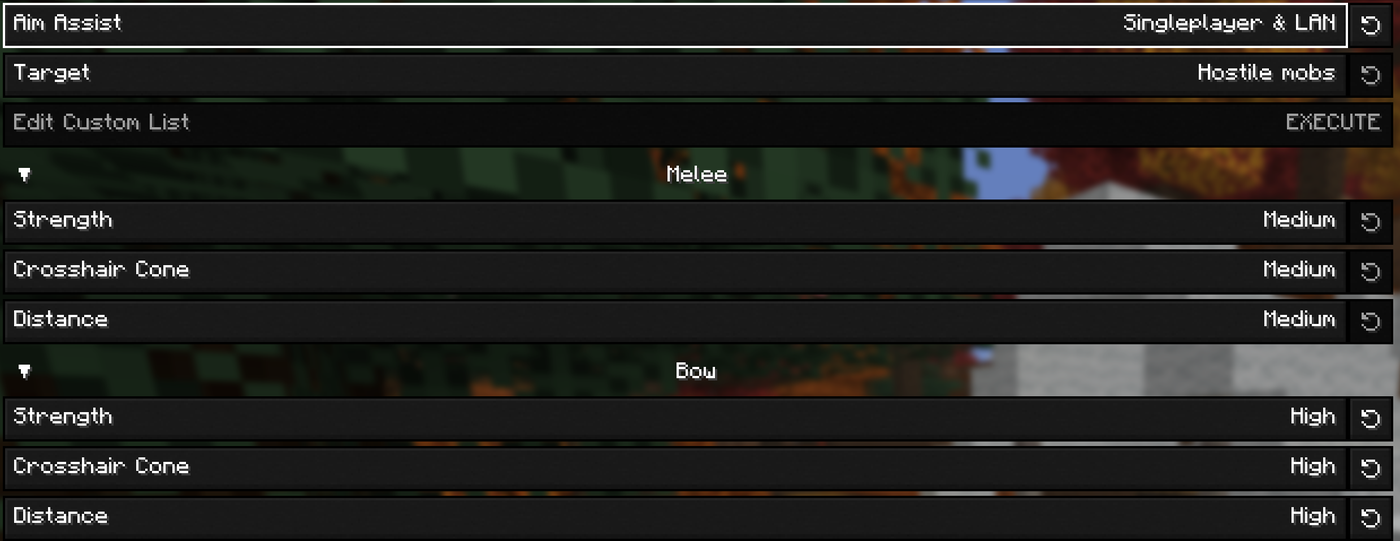
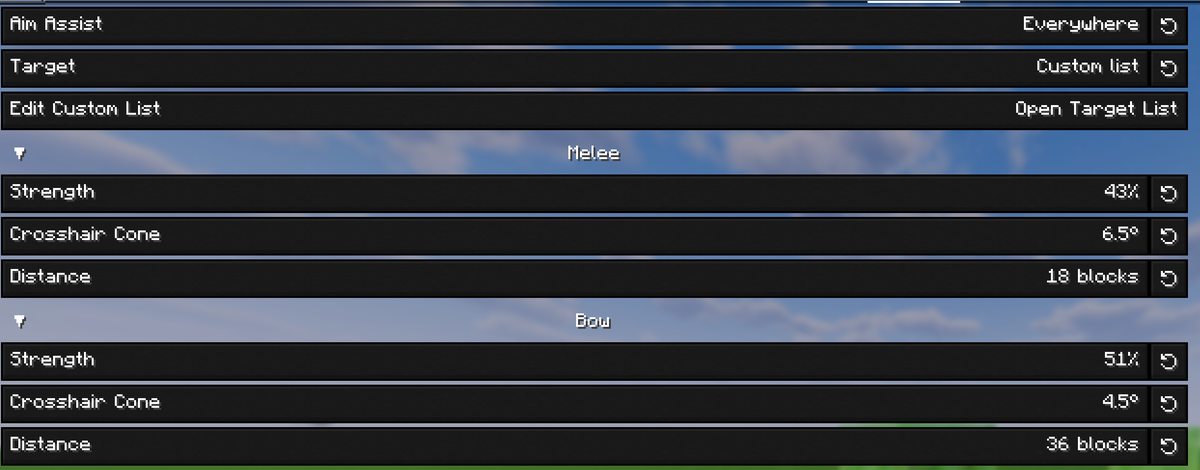
Update the README for target lock, the custom target list and current screenshots
Claude-Session: https://claude.ai/code/session_01JAwXM5Svp4a2yW5mUgwAPp

diff --git a/README.md b/README.md
@@ -16,7 +16,7 @@ This build adds three options to Controlify's **Global Settings** screen, fixes 
 
 **New options**
 
-- [Aim assist](#aim-assist) — controller aim assist for melee and bows, with target lock, off by default
+- [Aim assist](#aim-assist) — controller aim assist for melee and bows, with target lock and a custom target list, off by default
 - [Edit Glyph Positions](#edit-glyph-positions) — move the in-game button guides out of the way
 - [Disable Whitelist & Force Analog Movement](#disable-whitelist--force-analog-movement) — analog movement on every server
 
@@ -43,7 +43,7 @@ This build adds three options to Controlify's **Global Settings** screen, fixes 
 
 Opens a screen of aim assist settings. With it on, the look stick slows down as your crosshair comes onto a mob and pulls gently towards its upper chest, which is where most controller misses come from — overshooting rather than being wildly off. It keeps tracking while you strafe past something, not only while you're turning.
 
-It never widens a hitbox and never changes where an attack lands. Your own aim still decides the outcome.
+It only scales the look input you are already giving. It never moves the camera on its own, never widens a hitbox, and never changes where an attack lands. Your own aim still decides the outcome.
 
 <p align="center">
   <img alt="The Aim Assist Settings option" src="assets/fork/row-aim-assist.png" width="820">
@@ -52,17 +52,17 @@ It never widens a hitbox and never changes where an attack lands. Your own aim s
 **Aim Assist** — off, **Singleplayer & LAN**, or **Everywhere**.
 
 > [!WARNING]
-> Only use **Everywhere** on servers you know allow aim assist. Some server anti-cheats may flag or ban you for it. **Singleplayer & LAN** is the default and never touches a multiplayer server.
+> Many servers treat any aim assist as an unfair advantage, whatever the implementation. Only use **Everywhere** on servers you know allow it. **Singleplayer & LAN** is the default and never touches a multiplayer server.
 
 **Target** — hostile mobs, all mobs, or a custom list. Hostile mobs also covers a normally peaceful mob that's currently angry, like a provoked wolf pack. Players are never targeted.
 
 **Melee** and **Bow** are tuned separately, each with three settings:
 
-- **Strength** — how hard the assist slows and pulls. Low, Medium, High.
-- **Crosshair Cone** — how far off a mob can be before the assist takes an interest.
-- **Distance** — how far away a mob can be and still be targeted.
+- **Strength** — how hard the assist slows your look input and pulls towards a target, as a percentage. 0 does nothing at all; higher slows harder and pulls further each tick.
+- **Crosshair Cone** — how far off a mob can be before the assist takes an interest, in degrees. Measured from the edge of the mob rather than its centre, so the crosshair anywhere on it counts as zero.
+- **Distance** — how far away a mob can be and still be helped with, in blocks.
 
-Bows and crossbows use the melee settings until you actually start drawing, and switch to the bow settings from then on. A crossbow being reloaded counts as melee; a loaded one ready to fire counts as bow.
+Melee covers everything except lining up a projectile shot, including while a crossbow is reloading. Bow takes over while you're drawing a bow or holding a loaded crossbow, and is deliberately gentler and tighter — it never leads a shot and never compensates for arrow drop.
 
 The settings are global rather than per-controller.
 
@@ -74,19 +74,49 @@ The settings are global rather than per-controller.
 
 #### Target lock
 
-Holds the assist on one mob rather than whatever happens to be nearest the crosshair. Bind **Lock Target** in the controller bindings to use it: a press locks the closest valid target, another press moves to the next one, and holding it lets go.
+Holds one mob as your target instead of aim assist picking whichever is nearest your crosshair each tick. Bind **Lock Target** under Gameplay in Controller Bindings: tap to lock the nearest mob or move to the next, hold to let go. It never moves your camera on its own.
 
-**Mode** decides what else can take the lock:
+It follows the **Aim Assist** setting above, so it won't run anywhere aim assist isn't allowed.
 
-- **Keybind lock** — nothing is ever locked for you, only by the bind.
+<p align="center">
+  <img alt="The target marker over a locked slime" src="assets/fork/target-marker-in-game.jpg" width="820">
+  <br>
+  <em>The marker sits over the head of whatever is locked.</em>
+</p>
+
+**Mode** decides how a target comes to be locked:
+
+- **Keybind lock** — nothing is ever locked for you. The bind locks the nearest target, moves to the next one, and lets go when held.
 - **Last hit lock** — the bind still works, and on top of that, hitting a mob in melee or with your own arrow takes the lock over, as does a mob hitting you. A mob that *shoots* you only takes the lock when there's nothing else worth locking, so a skeleton across the ravine can't pull you off the creeper in front of you.
 - **Marker only** — the bind behaves the same, but aim assist is switched off entirely. Just the marker, and no aim help of any kind.
 
-While something is locked, **Locked Strength**, **Locked Range** and **Locked Speed** take over from the ordinary melee and bow settings, and **Ignore Crosshair Cone** lets the assist keep hold of a target you've turned well away from.
+While a target is locked, three settings stand in for the melee and bow ones:
 
-**Show Target Marker** draws a marker over the locked mob, and **Marker Colour** opens a colour wheel for it.
+- **Locked Strength** — how hard the assist slows and pulls.
+- **Locked Range** — how far a locked mob can be and still get help, and how far the bind can reach to lock one in the first place.
+- **Locked Speed** — how quickly the assist closes the angle still left. Strength is how hard it pulls; this is how fast it settles onto the mob.
 
-**Letting Go** decides when a lock breaks on its own. With **Drop Distant Targets** off it only ends when you end it. Turn that on and four settings become available: **Range** and **Flying Range** for how far a mob may get before it's dropped, **Time Before Dropping** for how long it's allowed to stay out there first, and **Reset Depth** for how far back inside the range it has to come to stop the clock.
+**Show Target Marker** draws a marker over the head of whatever is locked — solid while you have line of sight to it, faded when something is in the way. **Marker Colour** opens a colour wheel: drag around the wheel for the shade, and use the column beside it for brightness.
+
+<p align="center">
+  <img alt="The Target Lock and Letting Go settings" src="assets/fork/target-lock-options.png" width="820">
+  <br>
+  <em>The Letting Go sliders stay greyed out until Drop Distant Targets is on.</em>
+</p>
+
+**Ignore Crosshair Cone** takes the angle limit off entirely: the assist pulls towards your locked target from any angle, and keeps pulling even when you and the mob are both standing still. It still only reaches as far as **Locked Range**, and still only ever moves your aim towards the one mob you locked.
+
+> [!WARNING]
+> This tracks a mob for you rather than helping with aim you are already making. That is an unfair advantage over players without Controlify, and many anti-cheats will likely flag you for it. Use it in singleplayer, or somewhere everyone playing knows you have it and is fine with it.
+
+**Letting Go** decides when a lock breaks on its own. With **Drop Distant Targets** off, a lock is only let go when the mob dies or you clear it yourself. Turn it on and four settings become available:
+
+- **Range** — how far you can get from a mob that walks before the drop timer starts.
+- **Flying Range** — the same for a mob that flies. They cover ground quickly and are usually further off, so they get more room.
+- **Reset Depth** — how far back inside the boundary you have to come for the timer to reset, as a share of the range. Without it, a mob chasing you across the line would restart the count every few steps.
+- **Time Before Dropping** — how long you can stay outside the boundary before the lock is let go.
+
+The boundary follows the mob, so it moves as the mob does. These ranges only ever let a target go — they have no say in what you can lock in the first place.
 
 #### Custom target list
 
@@ -94,7 +124,13 @@ Setting **Target** to **Custom list** enables **Open Target List**, a picker hol
 
 Search by name, or use the tabs: **Main** for the mobs, **Hostile** and **Passive** for the two halves of those, **Other** for everything that isn't a mob, **Modded** for anything not from Minecraft, and **Selected** for what you've already ticked. In a world every row draws the actual mob rather than an icon.
 
-Six buttons along the bottom fill the list in bulk — `+ Both`, `+ Hostile` and `+ Provocable` on the left, and the same three with `-` on the right to take them back out. Provocable means the passive mobs that fight back when you hurt them: wolf, bee, panda, dolphin, llama, trader llama, polar bear and iron golem.
+Six buttons along the bottom fill the list in bulk — `+ Both`, `+ Hostile` and `+ Provocable` to add, and the same three with `-` to take them back out. Provocable means the passive mobs that fight back when you hurt them: wolf, bee, panda, dolphin, llama, trader llama, polar bear and iron golem.
+
+<p align="center">
+  <img alt="The Custom Target List picker" src="assets/fork/custom-target-list.jpg" width="900">
+  <br>
+  <em>Every entity type in the game, with the mobs drawn live.</em>
+</p>
 
 ### Edit Glyph Positions
 
@@ -159,10 +195,17 @@ The virtual mouse now picks up where your real mouse was, and switching between 
 
 ### Dev Functions panel
 
-A dev panel in Global Settings for faster testing and bug checking, so behaviour can be triggered on demand instead of waiting for it in game. Right now it fires the "New server detected" toast, reports what aim assist is doing at that moment, and reports the active movement type. The checkbox below hides the panel.
+A dev panel in Global Settings for faster testing and bug checking, so behaviour can be triggered on demand instead of waiting for it in game. Four buttons:
+
+- **Show "New server detected" Toast** — pops up the toast exactly as it appears in game.
+- **Check Aim Assist Target** — reports the mob aim assist is tracking, how far off centre it is, and how much your look input is being slowed.
+- **Check Target Lock** — reports whether target lock is running, what it is holding, how far away that is, and how long until it lets go.
+- **Check Current Movement Type** — reports whether analog or keyboard-like movement is active right now.
+
+The checkbox below hides the panel; while hidden, its buttons can't be clicked.
 
 <p align="center">
-  <img alt="The Dev Functions panel" src="assets/fork/dev-functions-panel.png" width="420">
+  <img alt="The Dev Functions panel" src="assets/fork/dev-functions-panel.png" width="520">
 </p>
 
 ---
